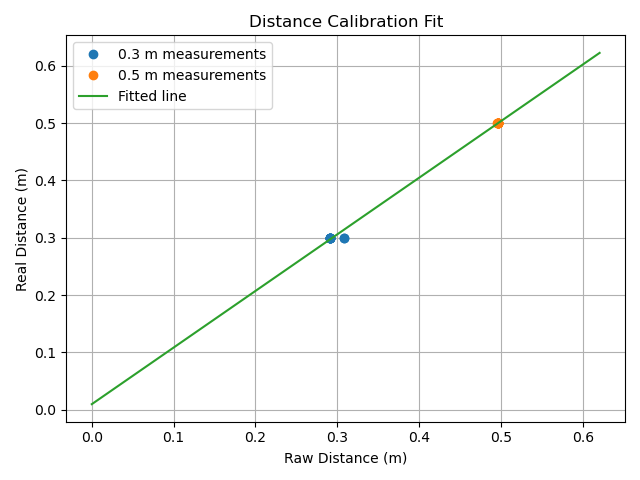
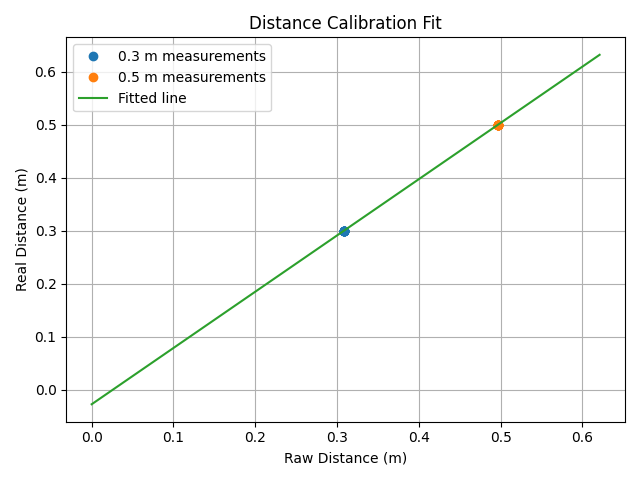
updated data acq

diff --git a/Control_code/Library/ControlParameters.py b/Control_code/Library/ControlParameters.py
@@ -1,17 +1,18 @@
 from scipy.interpolate import interp1d
 from matplotlib import pyplot as plt
+import numpy as np
 
 
 class Parameters:
     def __init__(self):
-        self.rotation_distances = [1, 0.75, 0.3]
-        self.rotation_magnitudes = [10, 20, 30]
-        fill_values = (min(self.rotation_magnitudes), max(self.rotation_magnitudes))
+        self.rotation_distances = np.array([0.3, 0.75, 1])
+        self.rotation_magnitudes = np.array([30, 20, 10])
+        fill_values = (30, 0)
         self.rotation_function = interp1d(self.rotation_distances, self.rotation_magnitudes, bounds_error=False, fill_value=fill_values)
 
-        self.translation_distances = [1, 0.75, 0.3]
-        self.translation_magnitudes = [0.2, 0.1, 0.05]
-        fill_values = (min(self.translation_magnitudes), max(self.translation_magnitudes))
+        self.translation_distances = np.array([0.3, 0.75, 1])
+        self.translation_magnitudes = np.array([0.05, 0.1, 0.2])
+        fill_values = (0.05, 0.2)
         self.translation_function = interp1d(self.translation_distances, self.translation_magnitudes, bounds_error=False, fill_value=fill_values)
 
 
@@ -23,19 +24,30 @@ class Parameters:
     def translation_magnitude(self, distance):
         return self.translation_function(distance)
 
-    def plot(self):
+    def plot(self, save_path=None):
+        interpolated = np.linspace(0, 2, 100)
+        rotation_i = self.rotation_function(interpolated)
+        distance_i = self.translation_function(interpolated)
+
         plt.figure()
-        plt.subplot(1,2,1)
-        plt.plot(self.rotation_distances, self.rotation_magnitudes)
+        plt.subplot(2,1,1)
+        plt.plot(interpolated, rotation_i)
+        plt.scatter(self.rotation_distances, self.rotation_magnitudes,color='red')
         plt.title('Rotation')
         plt.xlabel('Distance (m)')
         plt.ylabel('Magnitude (Deg)')
-        plt.subplot(1,2,2)
-        plt.plot(self.translation_distances, self.translation_magnitudes)
+        plt.subplot(2,1,2)
+        plt.plot(interpolated, distance_i)
+        plt.scatter(self.translation_distances, self.translation_magnitudes,color='red')
         plt.title('Translation')
         plt.xlabel('Distance (m)')
         plt.ylabel('Magnitude (m)')
         plt.tight_layout()
+
+        if save_path is not None:
+            destination = save_path + "/control_parameters.png"
+            plt.savefig(destination)
+
         plt.show()
 
 

diff --git a/Control_code/SCRIPT_DataAcquisition.py b/Control_code/SCRIPT_DataAcquisition.py
@@ -1,4 +1,5 @@
 import time
+import random
 from Library import Dialog
 from Library import Client
 from Library import ControlParameters
@@ -9,21 +10,25 @@ from LorexLib.Environment import capture_environment_layout
 
 
 robot_number = 1
-session = 'session07'
+session = 'sessionB01'
 wait_for_confirmation = False
 do_rotation = True
 do_translation = True
 do_plot = True
 selection_mode = 'first'
 max_steps = 500
+turn_probability = 0.03
+turn_distance = 0.20
 
 control = PauseControl.PauseControl()
 client = Client.Client(robot_number=robot_number)
 tracker = LorexTracker.LorexTracker()
 writer = DataStorage.DataWriter(session, autoclear=True, verbose=False)
 writer.add_file('Library/Settings.py')
+writer.add_file('Library/ControlParameters.py')
 snapshot = capture_environment_layout(save_root=f'Data/{session}')
 parameters = ControlParameters.Parameters()
+parameters.plot(save_path=writer.files_folder())
 parameters.plot()
 
 
@@ -50,7 +55,7 @@ for step in range(max_steps):
     rob_y = position['y']
     rob_yaw_deg = position['yaw_deg']
 
-    #print(f"Step {step}: IID {corrected_iid}, Distance {corrected_distance:.2f} m, Side {side_code}, Position X:{rob_x}, Y:{rob_y}, Yaw:{rob_yaw_deg}")
+    print(f"Step {step}: IID {corrected_iid}, Distance {corrected_distance:.2f} m, Side {side_code}, Position X:{rob_x}, Y:{rob_y}, Yaw:{rob_yaw_deg}")
 
     step_distance = parameters.translation_magnitude(corrected_distance)
     rotation_magnitude = parameters.rotation_magnitude(corrected_distance)
@@ -58,14 +63,20 @@ for step in range(max_steps):
     step_distance = float(step_distance)
     rotation_magnitude = float(rotation_magnitude)
 
+    random_number = random.random()
+    do_half_turn = (random_number < turn_probability) or (corrected_distance < turn_distance)
+    if do_half_turn: rotation_magnitude = 180
+
     if do_rotation:
         if side_code == 'L': rotation = rotation_magnitude * 1
         if side_code == 'R': rotation = rotation_magnitude * - 1
         client.step(angle=rotation)
+        time.sleep(0.15)
     if do_translation:
         if corrected_distance < 0.75: step_distance = 0.10
         if corrected_distance < 0.3: step_distance = 0.05
         client.step(distance=step_distance)
+        time.sleep(0.15)
 
     if wait_for_confirmation:
         response = Dialog.ask_yes_no("Continue", min_size=(400, 200))

diff --git a/Control_code/SCRIPT_PlotSession.py b/Control_code/SCRIPT_PlotSession.py
@@ -10,7 +10,7 @@ from matplotlib import pyplot as plt
 from Library import Colors
 import pandas as pd
 
-session = "session06
+session = "sessionB01"
 az_steps = 21
 max_extent = 120
 
@@ -18,29 +18,18 @@ plot_environment_interval = 20
 load_arena = False
 #%%
 colors = Colors.ColorMap()
-processor = DataProcessor.DataProcessor(session, load_arena=load_arena)
-collated = processor.collate_data(az_min=-max_extent, az_max=max_extent, az_steps=az_steps)
-n_steps = collated['n']
+processor = DataProcessor.DataProcessor(session)
+n_steps = processor.n
+rob_x = processor.rob_x
+rob_y = processor.rob_y
+rob_yaw_deg = processor.rob_yaw_deg
 #%%
 
-rob_xs = collated['rob_x']
-rob_ys = collated['rob_y']
-rob_yaw_degs = collated['rob_yaw_deg']
-
 plt.figure()
-plt.plot(rob_xs, rob_ys, color='black', alpha=0.5)
+plt.plot(rob_x, rob_y, color='black', alpha=0.5)
 for selected_index in range(n_steps):
-    rob_x = rob_xs[selected_index]
-    rob_y = rob_ys[selected_index]
-    rob_yaw_deg = rob_yaw_degs[selected_index]
-    Utils.plot_robot_positions(x=rob_x, y=rob_y, yaws_deg=rob_yaw_deg)
-    if selected_index%plot_environment_interval==0 and load_arena:
-        profiles = collated['profiles']
-        centers = collated['centers']
-        profile = profiles[selected_index, :]
-        plot_color = colors.get_next_color()
-        wall_x, wall_y = DataProcessor.robot2world(centers, profile, rob_x, rob_y, rob_yaw_deg)
-        plt.scatter(wall_x, wall_y, color=plot_color, marker='.', s=50)
-        plt.scatter(rob_x, rob_y, color=plot_color, marker='.', s=50)
-        plt.text(x=rob_x, y=rob_y, s=str(selected_index), color=plot_color)
+    x = rob_x[selected_index]
+    y = rob_y[selected_index]
+    yaw = rob_yaw_deg[selected_index]
+    Utils.plot_robot_positions(x=x, y=y, yaws_deg=yaw)
 plt.show()

diff --git a/Control_code/SCRIPT_CallibrateRobot.py b/Control_code/SCRIPT_CallibrateRobot.py
@@ -12,16 +12,17 @@ real_distance1 = 0.3 # meters
 real_distance2 = 0.5 # meters
 angles = [-40, -30, -20, -10, 0, 10, 20, 30, 40]
 delete_calibration = False
-collect_baseline = True
-collect_distance_calibration =False
-collect_sweep_data = False
+collect_baseline = False
+collect_distance_calibration = False
+collect_sweep_data = True
 # ─────────────────────────────────────
 
 client = Client.Client(robot_nr)
 client.change_free_ping_period(0) #To ensure no free pings are done during calibration
+
 #override the sample rate and samples to ensure consistency in calibration
-client.configuration.sample_rate = 10000
-client.configuration.samples = 100
+#client.configuration.sample_rate = 10000
+#client.configuration.samples = 200
 
 robot_name = client.configuration.robot_name
 
@@ -47,8 +48,8 @@ if collect_baseline:
 # We need to reload the calibration file because it might have been updated
 client.load_calibration() # Reload calibration
 sonar_package = client.read_and_process()
-sonar_package = Process.locate_echo(sonar_package)
-Process.plot_sonar_package(sonar_package)
+sonar_package = AcousticProcessing.locate_echo(sonar_package)
+AcousticProcessing.plot_sonar_package(sonar_package)
 
 # Raise error if the client configuration does not match the calibration file
 # In theory, this is not strictly necessary, but in practice it allows all data in the calibration

diff --git a/Control_code/Library/Callibration.py b/Control_code/Library/Callibration.py
@@ -122,8 +122,8 @@ def get_distance_data(client, calibration, real_distance, nr_repeats=10):
         message = f"Distance data: {i + 1}/{nr_repeats}..."
         Logging.print_message('Baseline', message, category='INFO')
         sonar_package = client.read_and_process()
-        raw_result = Process.locate_echo(sonar_package, selection_mode='first')
-        Process.plot_sonar_package(raw_result, file_name=file_name, close_after=close_after)
+        raw_result = AcousticProcessing.locate_echo(sonar_package, selection_mode='first')
+        AcousticProcessing.plot_sonar_package(raw_result, file_name=file_name, close_after=close_after)
         raw_results.append(raw_result)
         time.sleep(0.25)
     raw_distances = np.array([result['raw_distance'] for result in raw_results])
@@ -173,8 +173,9 @@ def get_sweep_data(client, calibration, sweep_angles):
         client.step(angle=int(step))
         time.sleep(1.5)
         sonar_package = client.read_and_process()
-        raw_result = Process.locate_echo(sonar_package, selection_mode='first')
+        raw_result = AcousticProcessing.locate_echo(sonar_package, selection_mode='first')
         all_sweep_data.append(raw_result)
+        time.sleep(0.25)
 
     sweep_all_data = np.array([result['sonar_data'] for result in all_sweep_data])
     sweep_onsets = np.array([result['onset'] for result in all_sweep_data])

diff --git a/Control_code/Library/DataStorage.py b/Control_code/Library/DataStorage.py
@@ -107,6 +107,13 @@ class DataWriter:
         """Get the full filepath for a given filename."""
         return os.path.join(self.base_folder, filename)
 
+
+    def files_folder(self, make=False):
+        folder = os.path.join(self.base_folder, "files")
+        if make: os.makedirs(folder, exist_ok=True)
+        return folder
+
+
     def add_file(self, filepath: str) -> str:
         """
         Copy an external file into the data storage folder under a files/ subfolder.
@@ -124,7 +131,7 @@ class DataWriter:
         if not os.path.isfile(filepath):
             raise FileNotFoundError(f"File not found: {filepath}")
 
-        files_folder = os.path.join(self.base_folder, "files")
+        files_folder = self.files_folder()
         os.makedirs(files_folder, exist_ok=True)
 
         filename = os.path.basename(filepath)

diff --git a/Control_code/Library/Settings.py b/Control_code/Library/Settings.py
@@ -19,12 +19,12 @@ class ClientConfig:
     aruco_id: int = 0
     # Acquisition settings
     sample_rate: int = 10000
-    samples: int = 100
+    samples: int = 200
     emitter_channel: int = 0
     left_channel: int = 2
     right_channel: int = 1
     # Processing parameters
-    baseline_extent_m: int = 0.5       # in raw distance, meters
+    baseline_extent_m: int = 0.75       # in raw distance, meters
     baseline_shift_right_m: int = 0.05   # in raw distance, meters
     baseline_shift_up_a: int = 5000   # in amplitude units
     integration_window_m: int = 0.17       # in raw distance, meters
